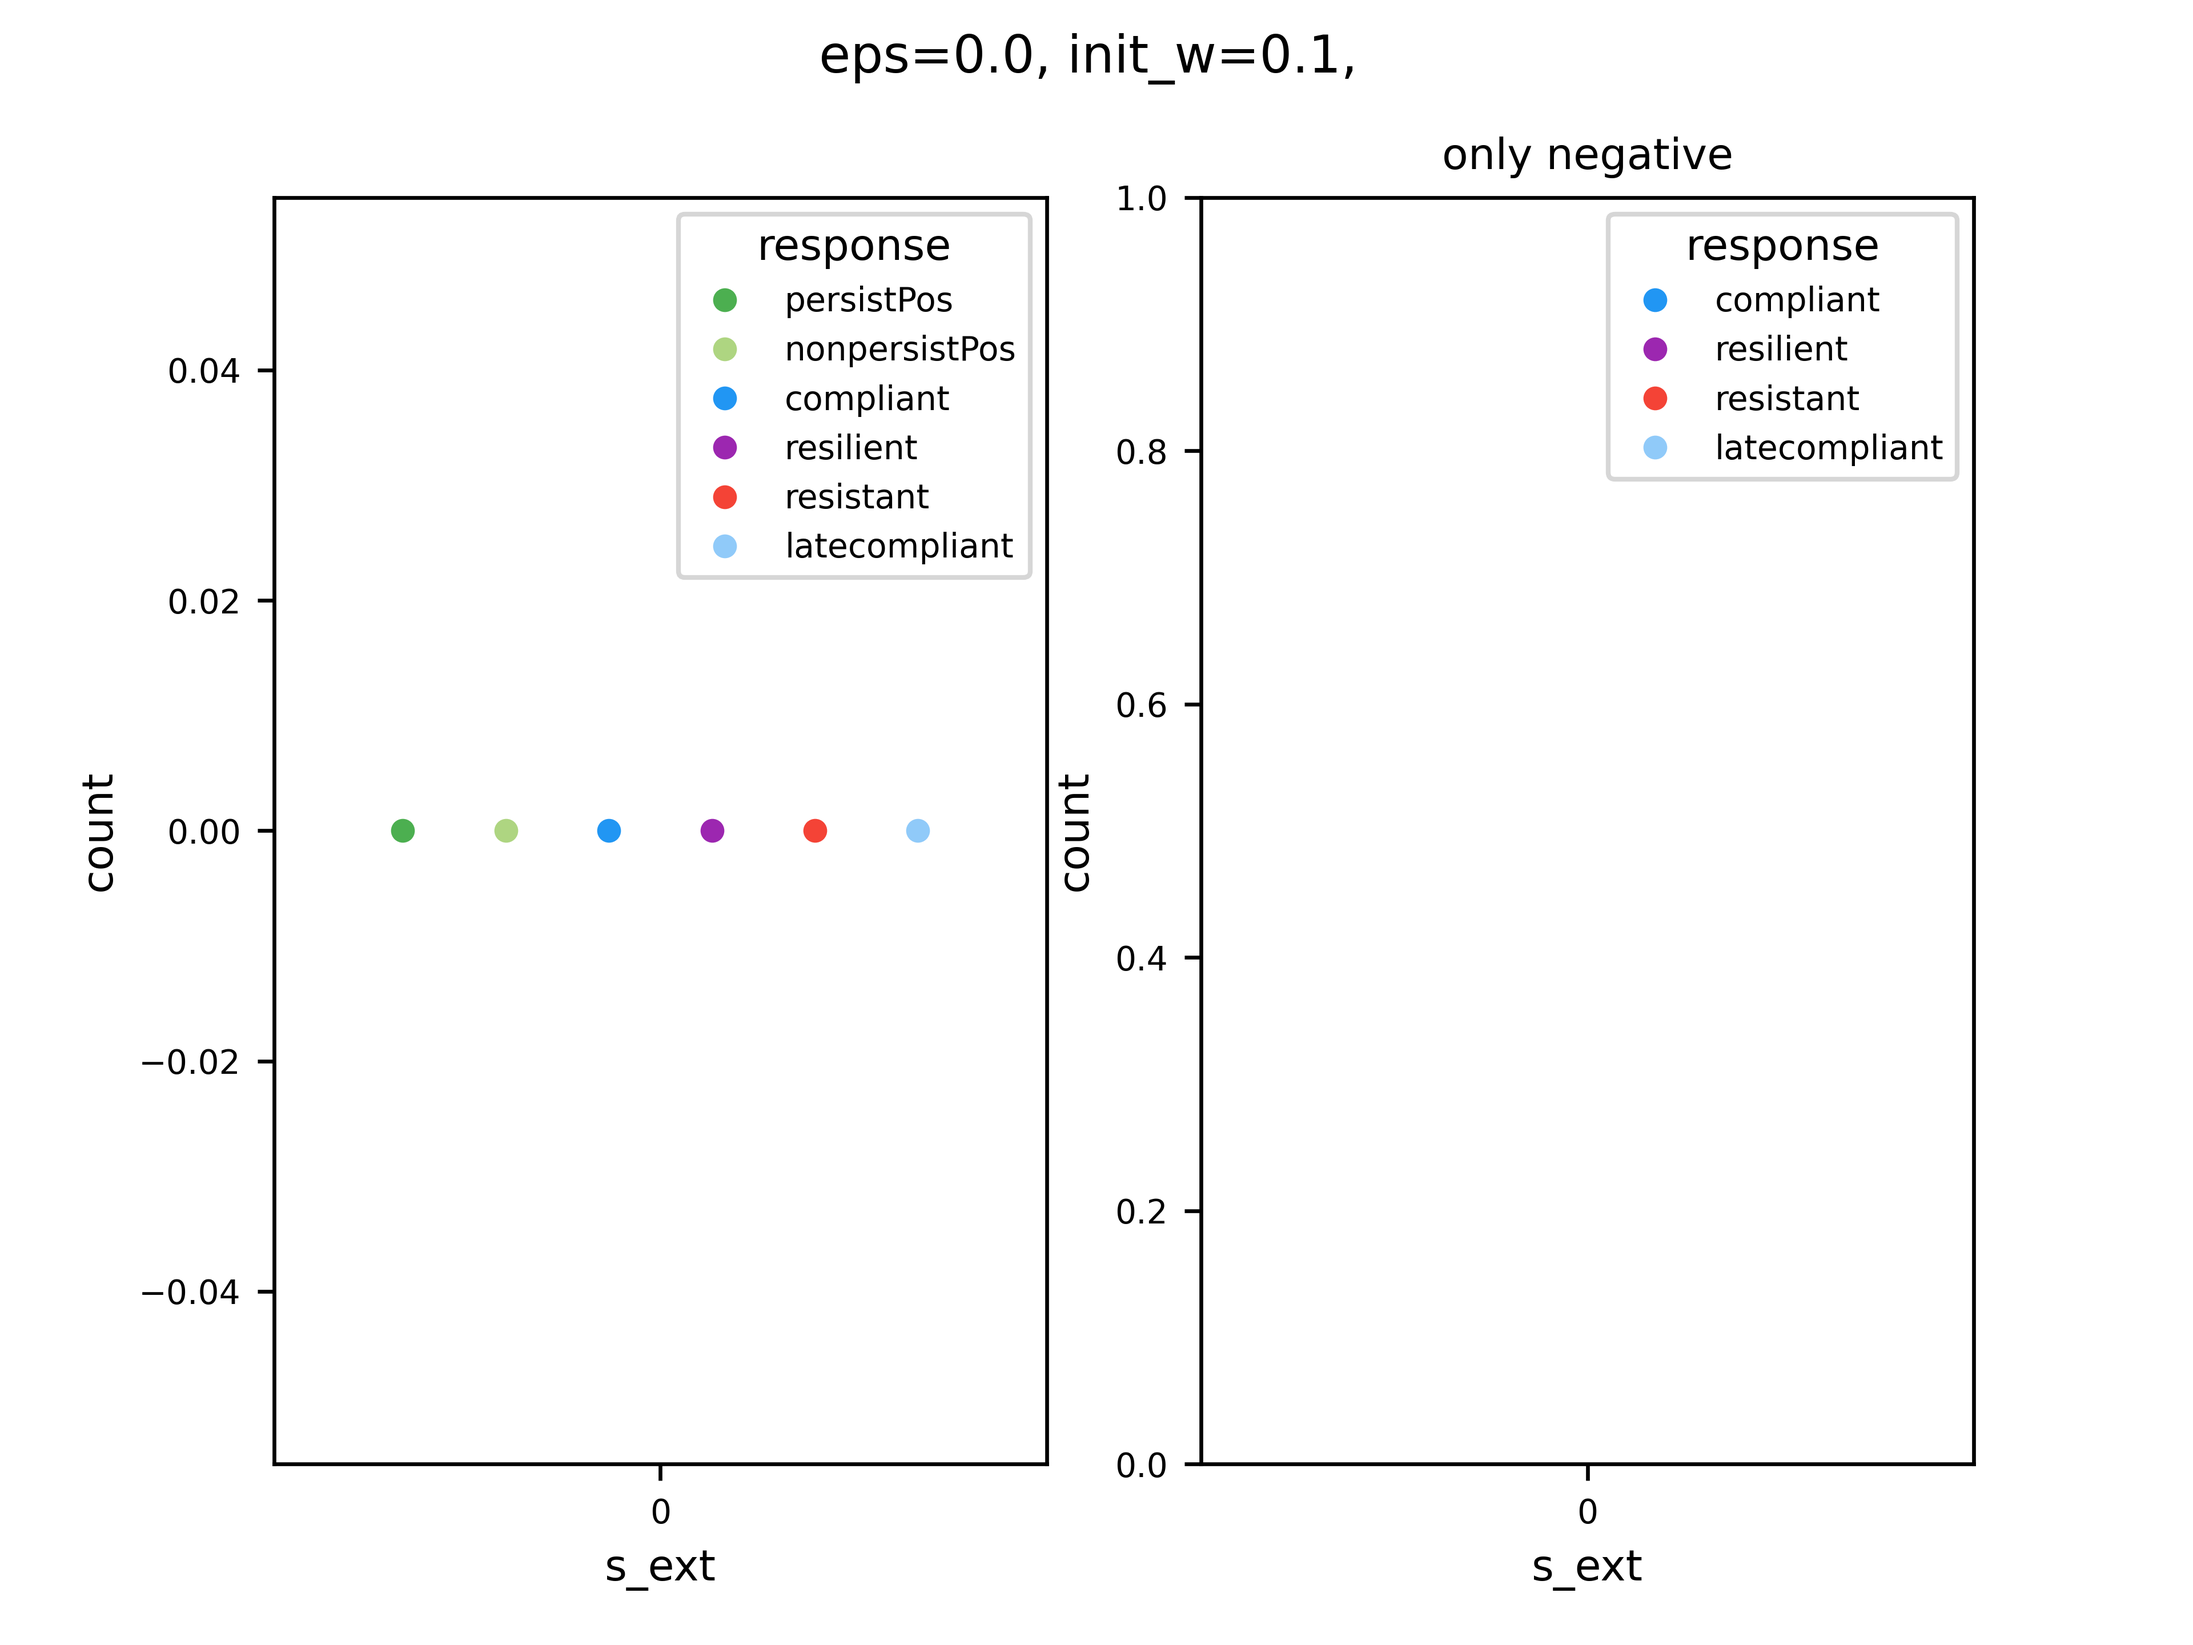
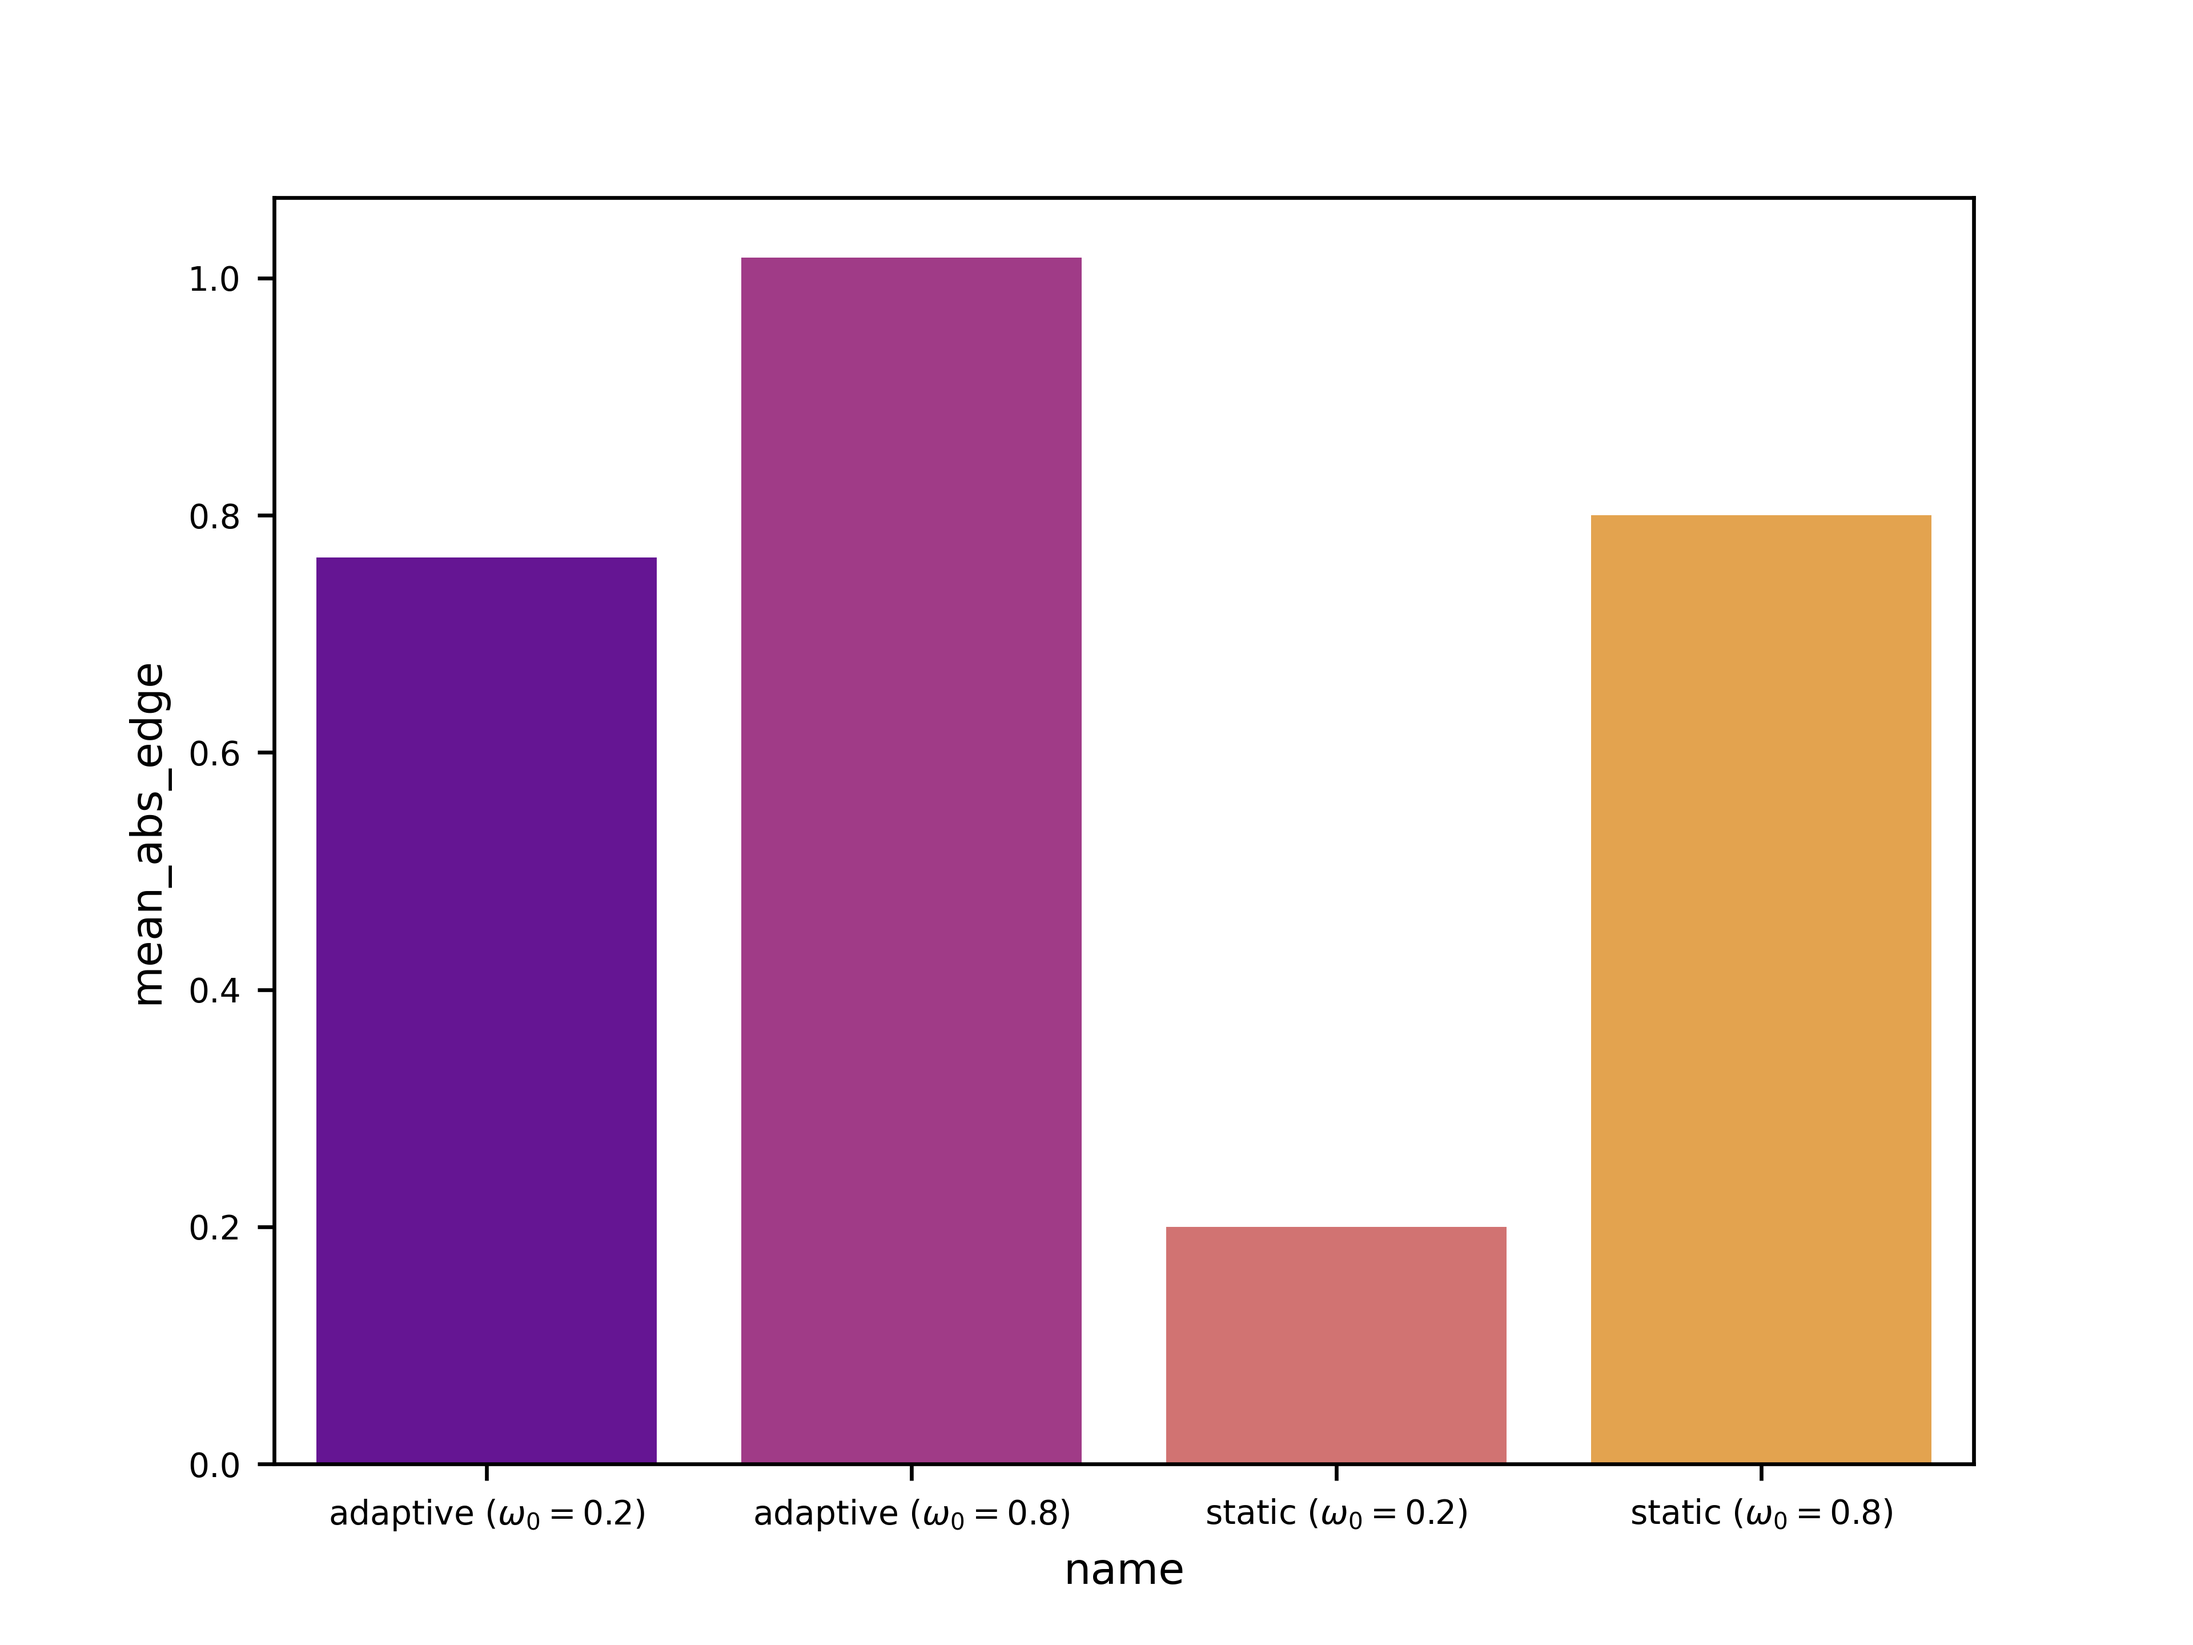
chanages the initials = 0.2,0.8 in the ANB to match the analyses, updated the analyses file

diff --git a/analysisRessponses_nopressure.py b/analysisRessponses_nopressure.py
@@ -4,8 +4,6 @@ import numpy as np
 import pandas as pd
 from itertools import combinations
 import matplotlib.pyplot as plt
-import pandas as pd
-import numpy as np
 import seaborn as sns
 import netCDF4
 import json
@@ -13,9 +11,7 @@ import xarray as xr
 import matplotlib as mpl
 import matplotlib.patches as mpatches
 from scipy.spatial.distance import pdist
-
 import matplotlib.path as mpath
-import numpy as np
 import glob
 import os
 
@@ -31,103 +27,35 @@ plt.rcParams.update({"ytick.labelsize": smallfs})
 
 
 # %%
-response_cols = [
-    "persistPos",
-    "nonpersistPos",
-    "compliant",
-    "resilient",
-    "resistant",
-    "latecompliant",
-]
 belief_dimensions = [int(a) for a in range(10)]
 belief_columns = [str(int(a)) for a in belief_dimensions]
 edgelist = list(combinations(belief_dimensions, 2))
 edges_columns = [f"w{a}{b}" for a, b in edgelist]
-cmap = dict(
-    zip(
-        response_cols + ["NA"],
-        ["#4CAF50", "#AED581", "#2196F3", "#9C27B0", "#F44336", "#90CAF9", "#9E9E9E"],
-    )
-)
+
 names = {
-    (0.1, 0.0, False): "staticlow",
-    (0.4, 0.0, False): "statichigh",
+    (0.2, 0.0, False): "staticlow",
+    (0.8, 0.0, False): "statichigh",
+    (0.2, 1.0, False): "adaptivelow",
+    (0.8, 1.0, False): "adaptivehigh",
 }
 
 namesTex = {
-    (0.1, 0.0, False): r"static ($\omega_0=0.1$)",
-    (0.4, 0.0, False): r"static ($\omega_0=0.4$)",
-}
-# %%
-
-# %%
-import numpy as np
-import pandas as pd
-from itertools import combinations
-import matplotlib.pyplot as plt
-import pandas as pd
-import numpy as np
-import seaborn as sns
-import netCDF4
-import json
-import xarray as xr
-import matplotlib as mpl
-import matplotlib.patches as mpatches
-from scipy.spatial.distance import pdist
-
-import matplotlib.path as mpath
-import numpy as np
-import glob
-import os
-
-plt.rcParams.update({"font.size": 10})
-bigfs = 9
-smallfs = 7
-plt.rcParams.update({"font.size": bigfs})
-plt.rcParams.update({"axes.titlesize": bigfs})
-plt.rcParams.update({"axes.labelsize": bigfs})
-plt.rcParams.update({"legend.fontsize": smallfs})
-plt.rcParams.update({"xtick.labelsize": smallfs})
-plt.rcParams.update({"ytick.labelsize": smallfs})
-
-
-# %%
-response_cols = [
-    "persistPos",
-    "nonpersistPos",
-    "compliant",
-    "resilient",
-    "resistant",
-    "latecompliant",
-]
-belief_dimensions = [int(a) for a in range(10)]
-belief_columns = [str(int(a)) for a in belief_dimensions]
-edgelist = list(combinations(belief_dimensions, 2))
-edges_columns = [f"w{a}{b}" for a, b in edgelist]
-cmap = dict(
-    zip(
-        response_cols + ["NA"],
-        ["#4CAF50", "#AED581", "#2196F3", "#9C27B0", "#F44336", "#90CAF9", "#9E9E9E"],
-    )
-)
-names = {
-    (0.1, 0.0, False): "staticlow",
-    (0.4, 0.0, False): "statichigh",
-}
-
-namesTex = {
-    (0.1, 0.0, False): r"static ($\omega_0=0.1$)",
-    (0.4, 0.0, False): r"static ($\omega_0=0.4$)",
+    (0.2, 0.0, False): r"static ($\omega_0=0.2$)",
+    (0.8, 0.0, False): r"static ($\omega_0=0.8$)",
+    (0.2, 1.0, False): r"adaptive ($\omega_0=0.2$)",
+    (0.8, 1.0, False): r"adaptive ($\omega_0=0.8$)",
 }
 # %%
 s_exts = [0]
-seeds = [0]
+seeds = [0, 1, 2, 3, 4,]
 res = []
 beta = 3.00
 mean_absedges = []
 param_combis = [
-    (0.1, 0.0, False),
-    (0.4, 0.0, False),
+    (0.2, 0.0, False),   # low ω₀, no internal adaptation
+    (0.8, 0.0, False),   # high ω₀, no internal adaptation
+    (0.2, 1.0, False),   # low ω₀, internal adaptation
+    (0.8, 1.0, False),   # high ω₀, internal adaptation
 ]
 for init_w, eps, fixedBNat100 in param_combis:
     for s in s_exts:
@@ -146,18 +74,17 @@ for init_w, eps, fixedBNat100 in param_combis:
                 < 0
             )
             res.append(
-                [
-                    init_w,
-                    eps,
-                    s,
-                    fixedBNat100,
-                    namesTex[(init_w, eps, fixedBNat100)],
-                ]
-                + df.loc[df.t == 95.5][response_cols]
-                .sum(axis=0)[response_cols]
-                .to_list()
-                + [groupishness, std_focal, nr_negs]
-            )
+    [
+        init_w,
+        eps,
+        s,
+        fixedBNat100,
+        namesTex[(init_w, eps, fixedBNat100)],
+        groupishness,
+        std_focal,
+        nr_negs,
+    ]
+)
 
             mean_absedges.append(
                 [
@@ -173,9 +100,16 @@ for init_w, eps, fixedBNat100 in param_combis:
 
 res = pd.DataFrame(
     res,
-    columns=["init_w", "eps", "s_ext", "fixedBNat100", "name"]
-    + response_cols
-    + ["groupishness", "std_focal", "nr_negs"],
+    columns=[
+        "init_w",
+        "eps",
+        "s_ext",
+        "fixedBNat100",
+        "name",
+        "groupishness",
+        "std_focal",
+        "nr_negs",
+    ],
 )
 # %%
 sns.barplot(
@@ -200,44 +134,6 @@ sns.barplot(
     palette="plasma",
 )
 # %%
-
-eps = 0.0
-init_w = 0.1
-fixedBNat100 = False
-name = namesTex[(init_w, eps, fixedBNat100)]
-fig, axs = plt.subplots(1, 2, sharex=True)
-sns.stripplot(
-    res.query(f"name=='{name}'")[response_cols + ["s_ext"]].melt(
-        id_vars=["s_ext"], var_name="response", value_name="count"
-    ),
-    hue="response",
-    x="s_ext",
-    y="count",
-    dodge=True,
-    palette=cmap,
-    ax=axs[0],
-)
-
-relres = res[["compliant", "resilient", "resistant", "latecompliant"]].div(
-    res[["compliant", "resilient", "resistant", "latecompliant"]].sum(axis=1), axis=0
-)
-for c in ["eps","init_w", "s_ext", "fixedBNat100"]:
-    relres[c] = res[c]
-axs[1].set_title("only negative")
-sns.stripplot(
-    relres.query(f"eps=={eps} and init_w=={init_w}")
-    .drop(columns=["eps", "init_w", "fixedBNat100"])
-    .melt(id_vars=["s_ext"], var_name="response", value_name="count"),
-    hue="response",
-    x="s_ext",
-    y="count",
-    dodge=True,
-    palette=cmap,
-    ax=axs[1],
-)
-fig.suptitle(
-    f"eps={eps}, init_w={init_w}, {'fixedBNat100' if fixedBNat100 else ''}"
-)
 res.groupby("name").std_focal.mean(),
 res.groupby("name").std_focal.std()
 # %%

diff --git a/ANBmodel_pressure.py b/ANBmodel_pressure.py
@@ -129,7 +129,6 @@ def initialise_agents(init_w):
         )
     return np.array(agent_list)
 
-
 def glauber_fast(dim, agent, ext_strength, beta):
     old_belief = agent[beliefids][dim]
     adjacent_beliefs = agent[beliefids][belief_neighbours[dim]]
@@ -142,7 +141,6 @@ def glauber_fast(dim, agent, ext_strength, beta):
     p = 1.0 / (1.0 + np.exp(beta * dH))
     return p / p.sum()
 
-
 def update_edge_weights(agent, eps):
     """Update all edge weights for an agent"""
     edgeweights = agent[edgeids]
@@ -153,7 +151,6 @@ def update_edge_weights(agent, eps):
         + eps * del_beliefs[edge_arr[:, 0]] * del_beliefs[edge_arr[:, 1]]
         - lam * edgeweights
     )
-
 
 def update_belief(agent, ext_strength, beta):
     """Update all belief values for an agent."""
@@ -172,7 +169,6 @@ def update_belief(agent, ext_strength, beta):
     # replace new del beliefs for last time step
     agent[delbeliefids[:M]] = agent[beliefids] - agent_prior_beliefs
     return agent
-
 
 def get_energies(t, agents, params):
     # Hpers = - 0.5 sum_i=1^M sum_j=1^M  w_ij * x_i x_j
@@ -208,7 +204,6 @@ def get_energies(t, agents, params):
     )
 
     return Hpers, Hpersfoc, Hext
-
 
 def get_metrics(agents):
     triangles = list(combinations(belief_dimensions, 3))
@@ -266,7 +261,6 @@ def get_metrics(agents):
         expected_influence,
     )
 
-
 def fill_metrics(t, agents, params):
     Hpers, Hpersfoc, Hext = get_energies(t, agents, params)
     tb_tot, tb_foc, absOm_tot, absOm_foc, clust, bc_foc, expI = get_metrics(agents)
@@ -285,7 +279,6 @@ def fill_metrics(t, agents, params):
     np.abs(agents[:, [k for k in beliefids if not k == beliefids[focal]]]), axis=1
 )
     return agents
-
 
 def get_output(snapshots):
     beliefs = pd.DataFrame(
@@ -384,7 +377,6 @@ def get_output(snapshots):
         )
     return dfFull if detail else df
 
-
 def run_simulation(params):
     np.random.seed(params["seed"])
     eps, beta, ext_strength = (
@@ -424,7 +416,6 @@ def run_simulation(params):
     output_df = get_output(snapshots)
     return output_df
 
-
 def run_one(seed, init_w, beta, eps, fixedBNat100, ext_strength):
 
     results_folder = "simOut/"
@@ -442,33 +433,30 @@ def run_one(seed, init_w, beta, eps, fixedBNat100, ext_strength):
     }
 
     fname = (
-        results_folder
-        + ("detailed/" if detail else "")
-        + "sim_"
-        + "_".join(
-            [
-                (
-                    f"{k}{v}"  # integer params
-                    if k in ["seed", "ext_strength"]
-                    else (
-                        f"{k}{v:.3f}"
-                        if k == "mu"
-                        else (
-                            (k if v else "") if k == "fixedBNat100" else f"{k}{v:.2f}"
-                        )
-                    )
+    results_folder
+    + ("detailed/" if detail else "")
+    + "sim_"
+    + "_".join(
+        [
+            (
+                f"{k}{v}"  # integer params
+                if k in ["seed", "ext_strength"]
+                else (
+                    (k if v else "") if k == "fixedBNat100"
+                    else f"{k}{v:.2f}"
                 )
-                for k, v in params.items()
-            ]
-        )
+            )
+            for k, v in params.items()
+        ]
     )
+)
     fname = fname.replace("__", "_")
     fname += "" if not two_external_events else "_2events"
     fname += f"_lambda{lam:.4f}" if lam > 0 else ""
     if (seed % 25) == 0:
         print(fname + "...")
-
-    if True:  # not os.path.isfile(fname+".csv"):
+# Dont rerun the simulation if the output file already exists
+    if not os.path.isfile(fname + (("_detailed" if detail else "") + ".csv")):
         out = run_simulation(params)
 
         for k, v in params.items():
@@ -477,7 +465,6 @@ def run_one(seed, init_w, beta, eps, fixedBNat100, ext_strength):
         out.to_csv(fname + ("_detailed" if detail else "") + ".csv")
         print("Saved:", fname + "_detailed.csv")
     return fname
-
 
 # %%
 # Main execution
@@ -529,7 +516,6 @@ if __name__ == "__main__":
             for init_w, beta, eps, fixedBNat100, ext_strength, seed in param_combis_withSeed
         )
 # PRINT PRESSURE RESULTS
-
 pressures = [0, 1, 2, 4, 8, 16]
 seeds = range(5)
 

diff --git a/ANBmodel_nopressure.py b/ANBmodel_nopressure.py
@@ -499,10 +499,10 @@ if __name__ == "__main__":
 
     param_combis = []
 
-    for init_w in [0.1, 0.2, 0.4, 0.6]:
-        for eps in [0, 1]:
-            param_combis.append([init_w, beta, eps, False, 0])
-
+for init_w in [0.2, 0.8]:
+    for eps in [0, 1]:
+        param_combis.append([init_w, beta, eps, False, 0])
+        
     seeds = [0, 1, 2, 3, 4]
     detail = True
 
@@ -539,7 +539,7 @@ metric = "Hpers"
 
 plt.figure(figsize=(8,5))
 
-for init_w in [0.1, 0.2, 0.4, 0.6]:
+for init_w in [0.2,0.8]:
     for eps in [0, 1]:
 
         files = [
